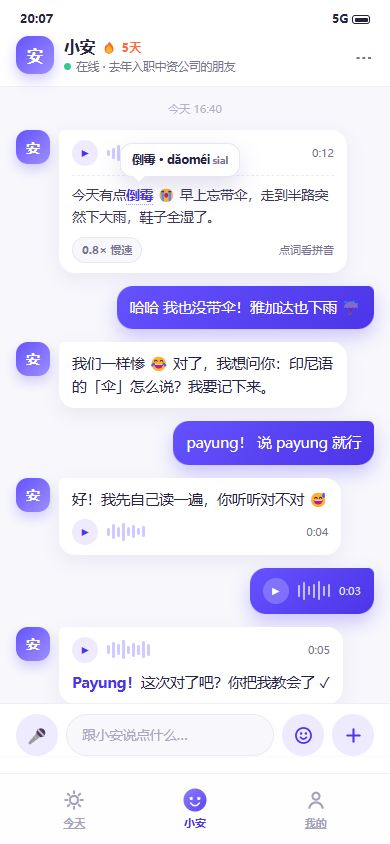
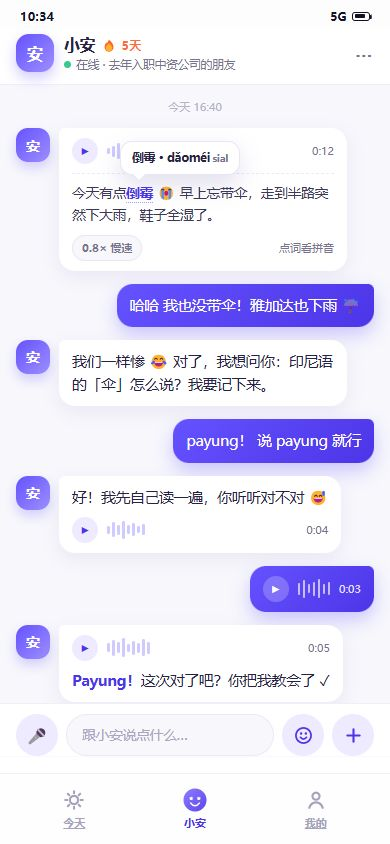
fix: 小安页状态栏对齐设计系统，三页顶栏统一
小安页自带一套状态栏（30px / 纯白底 / 电池无正极 / 字色字距不同），与今天、我的等 7 页的 28px 半透明细条不一致；改为同一套样式（28px + rgba(255,255,255,.72) + 18×9 电池带正极），只动状态栏，小安其余设计与交互未变。顺带重拍 screenshots/33-xiaolan.png

diff --git a/xiaolan.html b/xiaolan.html
@@ -19,9 +19,12 @@
 
   .app{width:100%;max-width:430px;margin:0 auto;height:100vh;height:100dvh;min-height:560px;display:flex;flex-direction:column;background:var(--page)}
 
-  .status-bar{display:flex;align-items:center;justify-content:space-between;height:30px;padding:6px 20px 0;font-size:12px;font-weight:800;background:#fff}
-  .battery{display:inline-block;width:18px;height:9px;border:1.5px solid currentColor;border-radius:3px;position:relative;vertical-align:-1px}
-  .battery::before{content:"";position:absolute;inset:1.5px;background:currentColor;border-radius:1px}
+  /* 状态栏：与原型设计系统一致（28px 细条 + 半透明白 + 18×9 电池带正极）；只改这一处，其余样式不动 */
+  .status-bar{position:relative;z-index:20;display:flex;align-items:center;justify-content:space-between;height:28px;padding:4px 20px 0;color:#121126;background:rgba(255,255,255,.72);font-size:12px;font-weight:800;letter-spacing:.02em}
+  .status-icons{display:flex;align-items:center;gap:5px}
+  .status-icons .battery{display:inline-block;width:18px;height:9px;border:1.5px solid currentColor;border-radius:3px;position:relative;vertical-align:-1px}
+  .status-icons .battery::before{content:"";position:absolute;inset:1.5px;width:10px;background:currentColor;border-radius:1px}
+  .status-icons .battery::after{content:"";position:absolute;top:2px;right:-3px;width:2px;height:4px;border-radius:0 2px 2px 0;background:currentColor}
 
   .chat-nav{display:flex;align-items:center;gap:10px;padding:6px 16px 12px;background:#fff;border-bottom:1px solid #f0eff7}
   .chat-avatar{width:38px;height:38px;border-radius:13px;background:linear-gradient(135deg,#6552ff,#9d8fff);color:#fff;font-weight:800;font-size:16px;display:grid;place-items:center;box-shadow:0 6px 14px rgba(101,82,255,.3)}
@@ -112,7 +115,7 @@
 <body>
 <div class="app">
 
-  <div class="status-bar"><span id="statusTime">11:20</span><span>5G <span class="battery"></span></span></div>
+  <div class="status-bar" aria-hidden="true"><span id="statusTime">11:20</span><span class="status-icons">5G <span class="battery"></span></span></div>
 
   <header class="chat-nav">
     <div class="chat-avatar">安</div>
